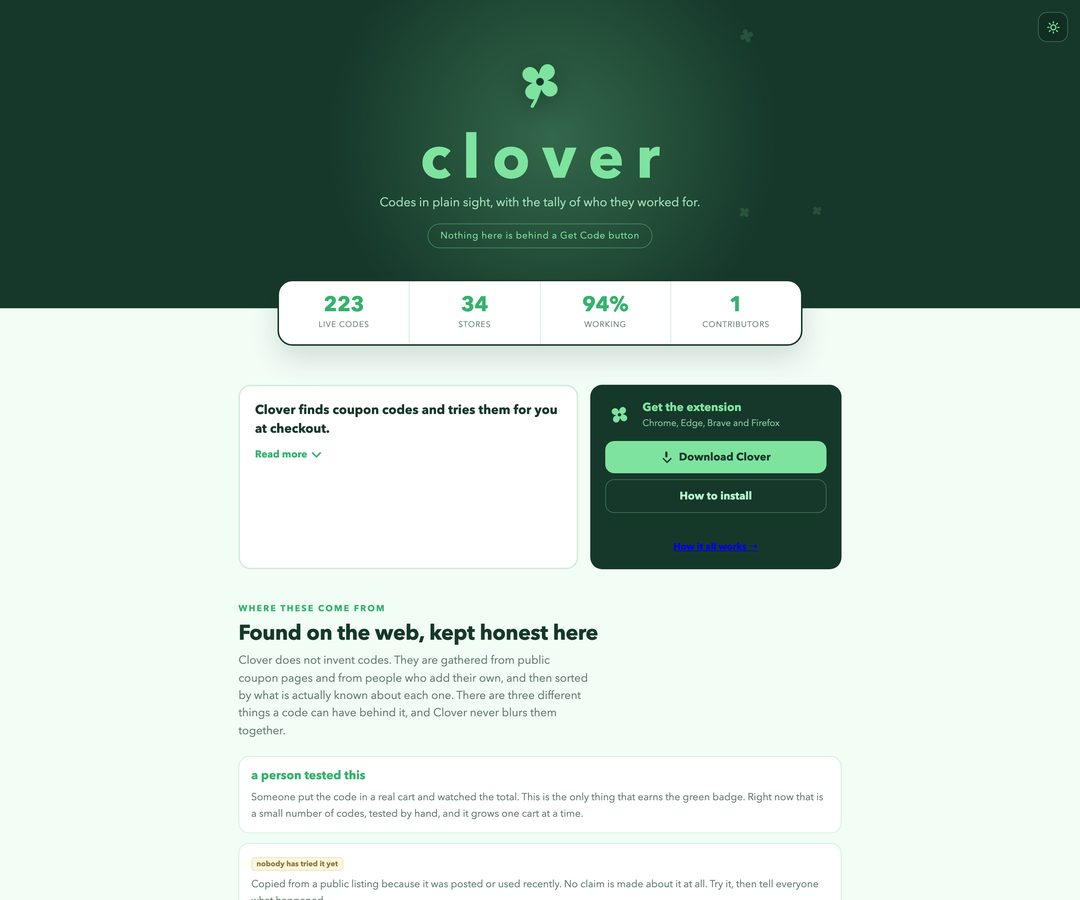
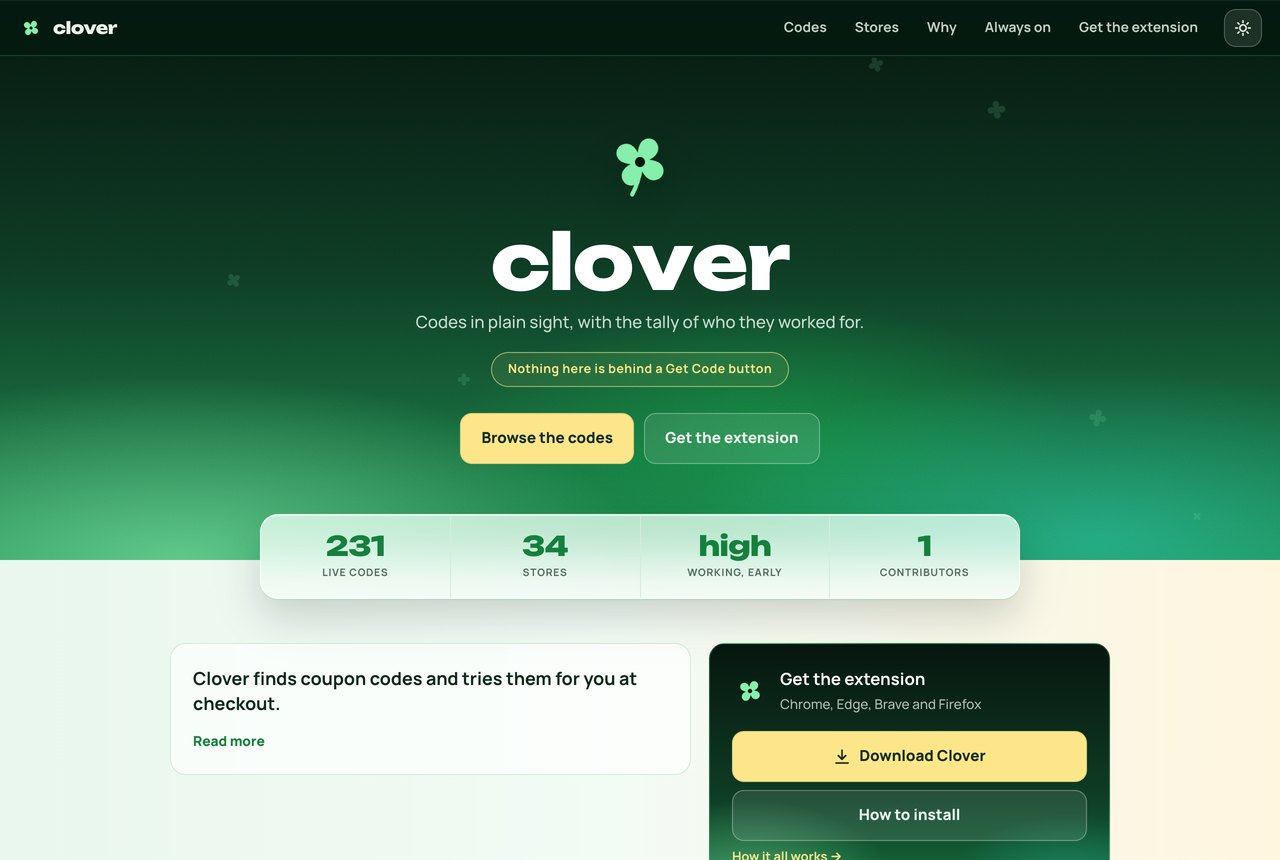
Add Clover its own world in the middle, after Chalkboard: its dark green and mint with Unbounded, a fresh screenshot of the new site, a nav dot, 17 projects

diff --git a/index.html b/index.html
@@ -156,11 +156,11 @@ body[data-shape="sharp"] .sig .lbar,body[data-shape="sharp"] .sig .line{border-r
 <div class="particles" id="particles"></div>
 <div class="prog" id="prog"></div>
 <header class="bar"><span class="brand">Peter Stam</span><span class="now" id="now">Everything I have made</span></header>
-<nav class="nav"><a class="ndot" href="#little" title="Little One"></a><a class="ndot" href="#aibook" title="The AI Book Blueprint"></a><a class="ndot" href="#guide" title="Guide to 3D Printing"></a><a class="ndot" href="#money" title="Making Money with 3D Printing"></a><a class="ndot" href="#rab" title="Raise a Builder"></a><a class="ndot" href="#operation" title="The Operation Series"></a><a class="ndot" href="#kyber" title="Kyber"></a><a class="ndot" href="#chalk" title="Chalkboard"></a><a class="ndot" href="#broom" title="Broom"></a><a class="ndot" href="#fry" title="Fry City"></a><a class="ndot" href="#shop" title="3D — the print shop"></a><a class="ndot" href="#screen" title="Screen Protectors"></a><a class="ndot" href="#pic" title="Picture Machines"></a><a class="ndot" href="#cubo" title="CUBO"></a><a class="ndot" href="#toys" title="Toys"></a><a class="ndot" href="#spin" title="Spin"></a><a class="ndot" href="#find" title="Where to find it"></a></nav>
+<nav class="nav"><a class="ndot" href="#little" title="Little One"></a><a class="ndot" href="#aibook" title="The AI Book Blueprint"></a><a class="ndot" href="#guide" title="Guide to 3D Printing"></a><a class="ndot" href="#money" title="Making Money with 3D Printing"></a><a class="ndot" href="#rab" title="Raise a Builder"></a><a class="ndot" href="#operation" title="The Operation Series"></a><a class="ndot" href="#kyber" title="Kyber"></a><a class="ndot" href="#chalk" title="Chalkboard"></a><a class="ndot" href="#clover" title="Clover"></a><a class="ndot" href="#broom" title="Broom"></a><a class="ndot" href="#fry" title="Fry City"></a><a class="ndot" href="#shop" title="3D — the print shop"></a><a class="ndot" href="#screen" title="Screen Protectors"></a><a class="ndot" href="#pic" title="Picture Machines"></a><a class="ndot" href="#cubo" title="CUBO"></a><a class="ndot" href="#toys" title="Toys"></a><a class="ndot" href="#spin" title="Spin"></a><a class="ndot" href="#find" title="Where to find it"></a></nav>
 
 <main>
   <section class="hero" id="top" data-bg="#0E0E12" data-ink="#F4F1EA" data-dim="#8B8B98" data-accent="#C9A227" data-accent2="#5FD0E6" data-fdisp="Fraunces" data-fbody="Inter" data-fmono="&#x27;Space Mono&#x27;" data-tex="dots" data-shape="soft" data-hero="1"><div class="wrap">
-    <p class="eyebrow">A catalogue · 16 projects</p>
+    <p class="eyebrow">A catalogue · 17 projects</p>
     <h1>Everything<br>I have <em>made</em>.</h1>
     <p class="lede">I am 11, I live in Berlin, and I build things and then finish them. Scroll down — every project takes over the whole page with its own look.</p>
     <p class="scrollcue">Scroll &#8595;</p>
@@ -255,6 +255,18 @@ body[data-shape="sharp"] .sig .lbar,body[data-shape="sharp"] .sig .line{border-r
   </div>
 </section>
 
+<section class="world" id="clover" data-bg="#07160F" data-ink="#ECF7EE" data-dim="#A3C3B1" data-accent="#86EFAC" data-accent2="#FDE68A" data-fdisp="Unbounded" data-fbody="Inter" data-fmono="&#x27;Space Mono&#x27;" data-tex="dots" data-shape="round">
+  <div class="wrap wgrid">
+    <div class="wtext reveal">
+      <p class="kick">COUPON CODES · SITE &amp; EXTENSION · FREE</p>
+      <h2>Clover</h2>
+      <p class="wdesc">Coupon codes in plain sight, with the tally of who they worked for. Nothing hides behind a Get Code button, and a code that stops working retires itself. The browser extension tries the codes for you at checkout, and a checker re-tests them twice a week on the shops&#x27; own sites. Only a real person&#x27;s vote turns a code green.</p>
+      <div class="wrow"><a class="cta" href="https://clover.peterstam.eu" target="_blank" rel="noopener">Find a code <span aria-hidden="true">&#8599;</span></a><span class="mood m-tag" data-mood="tested by people">tested by people</span></div>
+      <div class="sig" data-wid="clover"></div>
+    </div>
+    <div class="wart reveal"><div class="frame"><img src="i-clover.jpg" alt="Clover — the coupon site, with its live code count" loading="lazy"></div></div>
+  </div>
+</section>
 <section class="world" id="broom" data-bg="#ECE0C8" data-ink="#17140F" data-dim="#6B6152" data-accent="#C04A32" data-accent2="#C04A32" data-fdisp="&#x27;Alfa Slab One&#x27;" data-fbody="Inter" data-fmono="&#x27;Space Mono&#x27;" data-tex="dots" data-shape="soft">
   <div class="wrap wgrid">
     <div class="wtext reveal">
